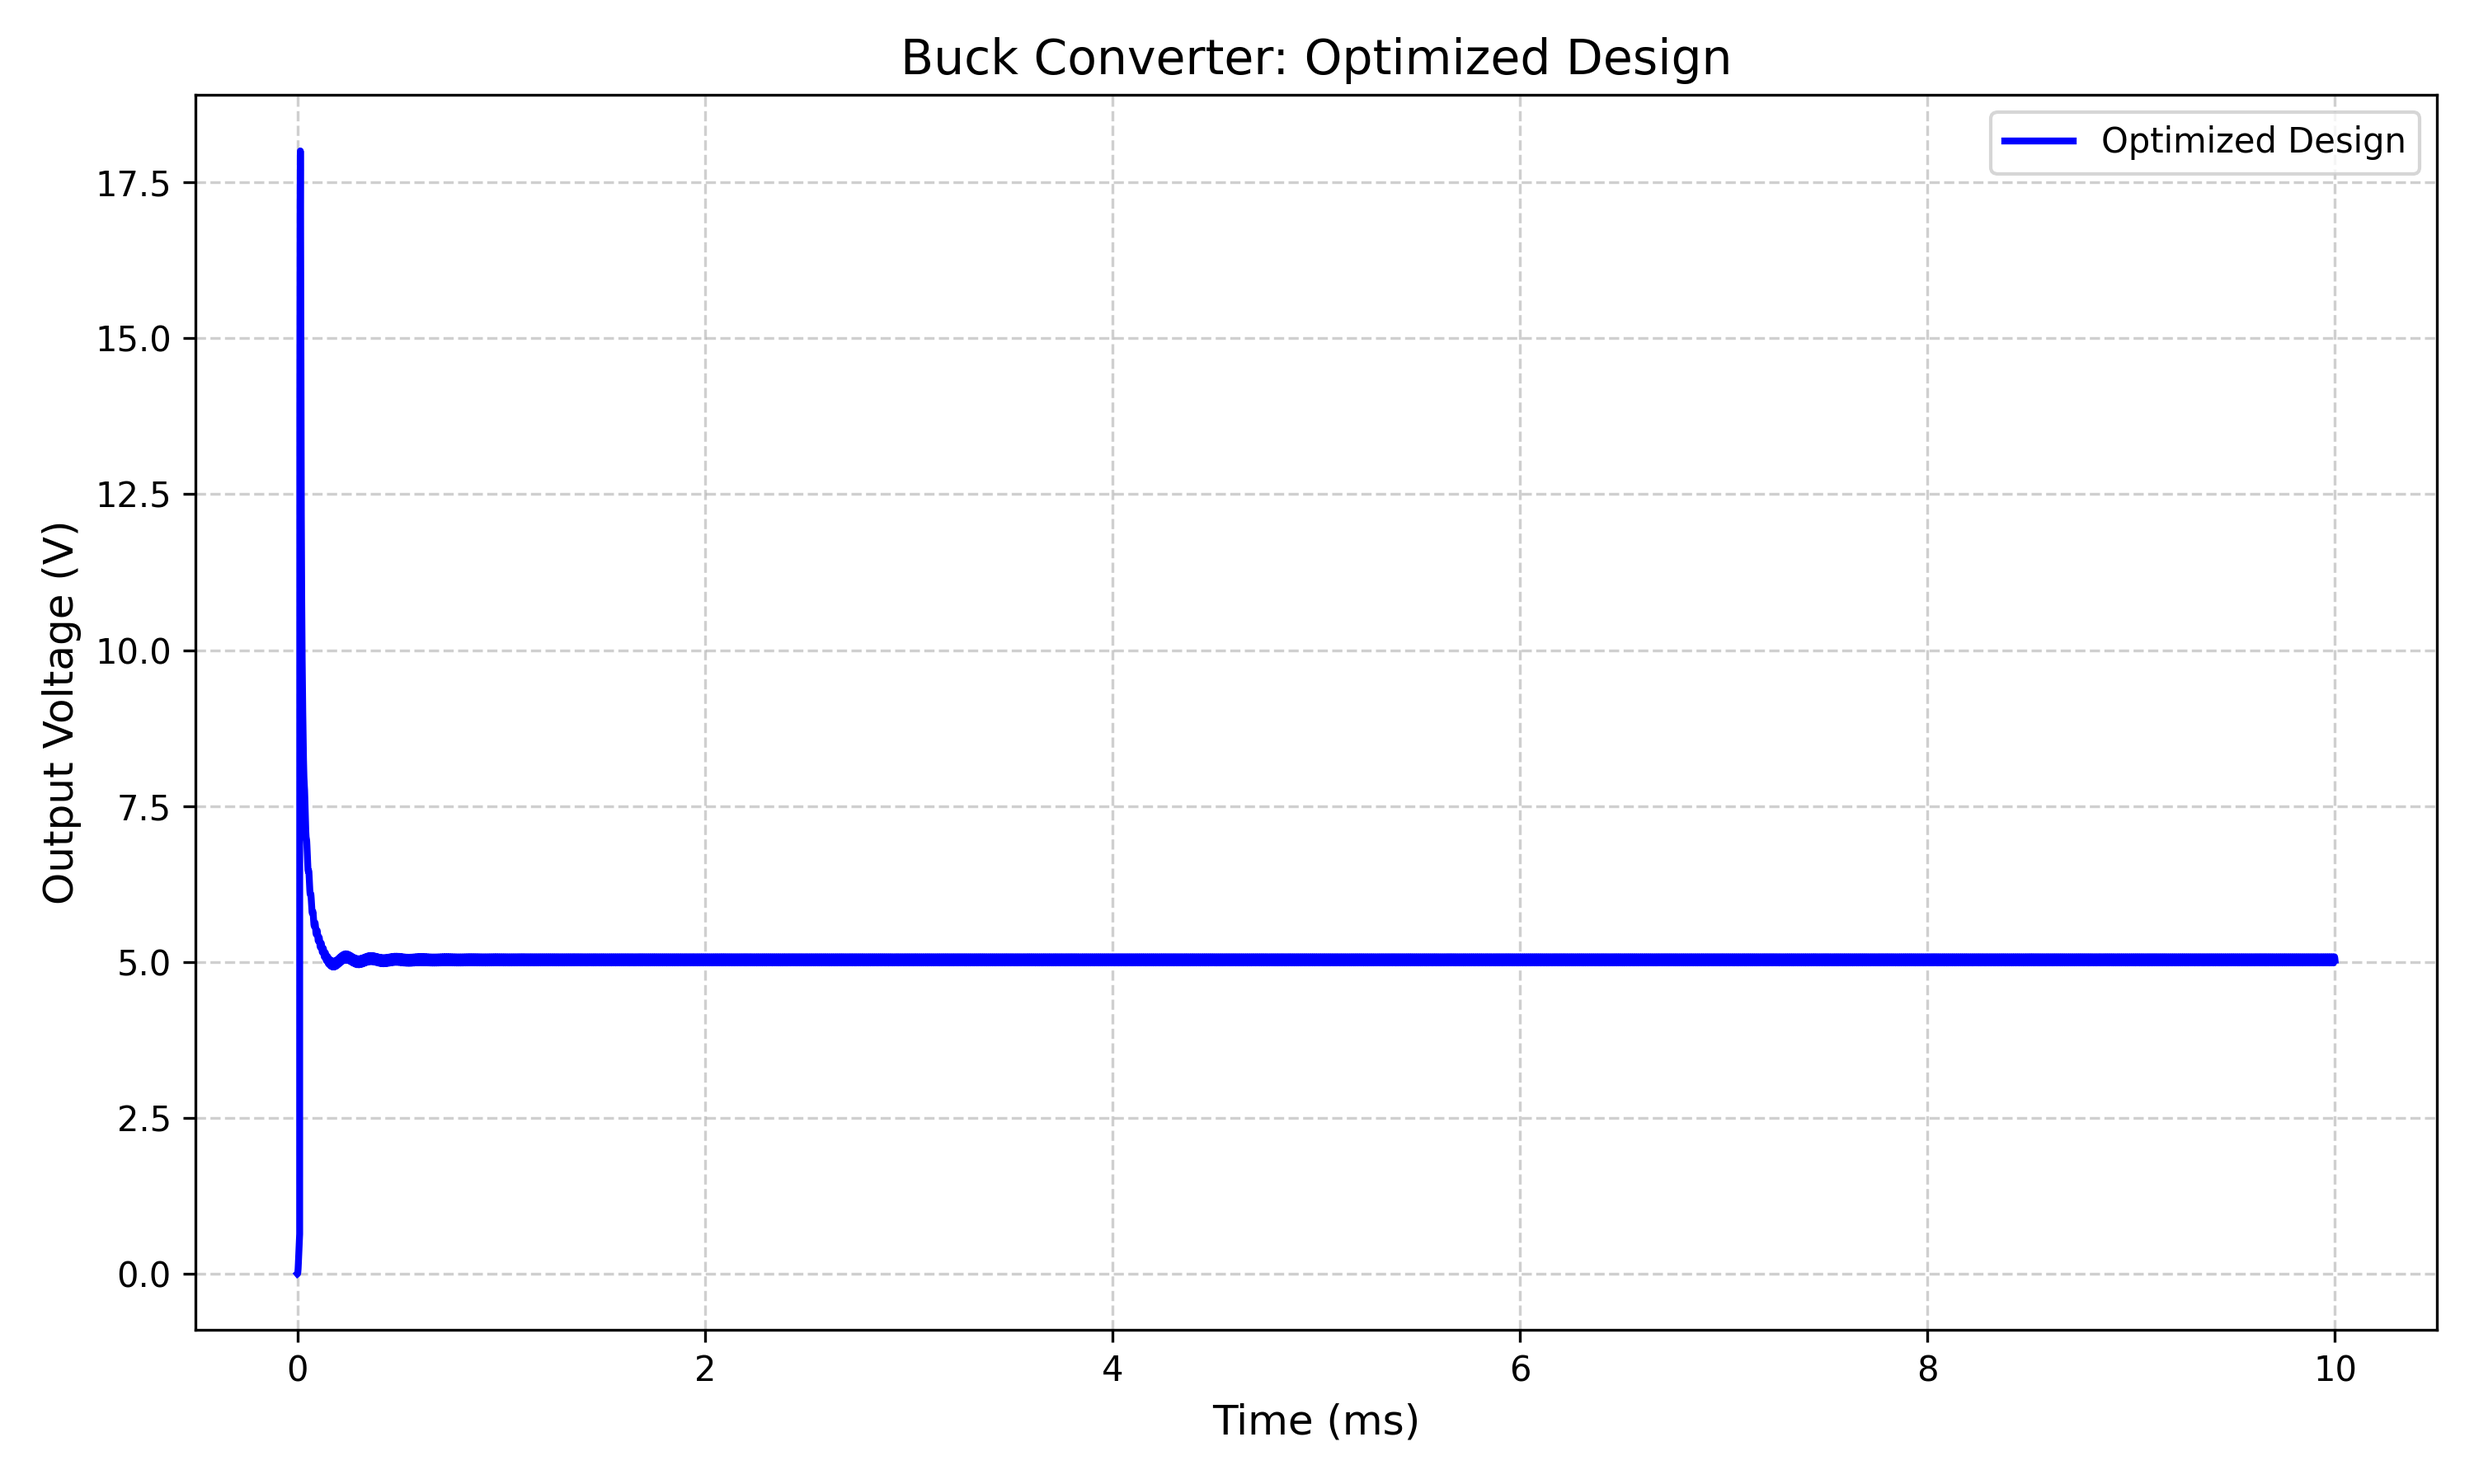
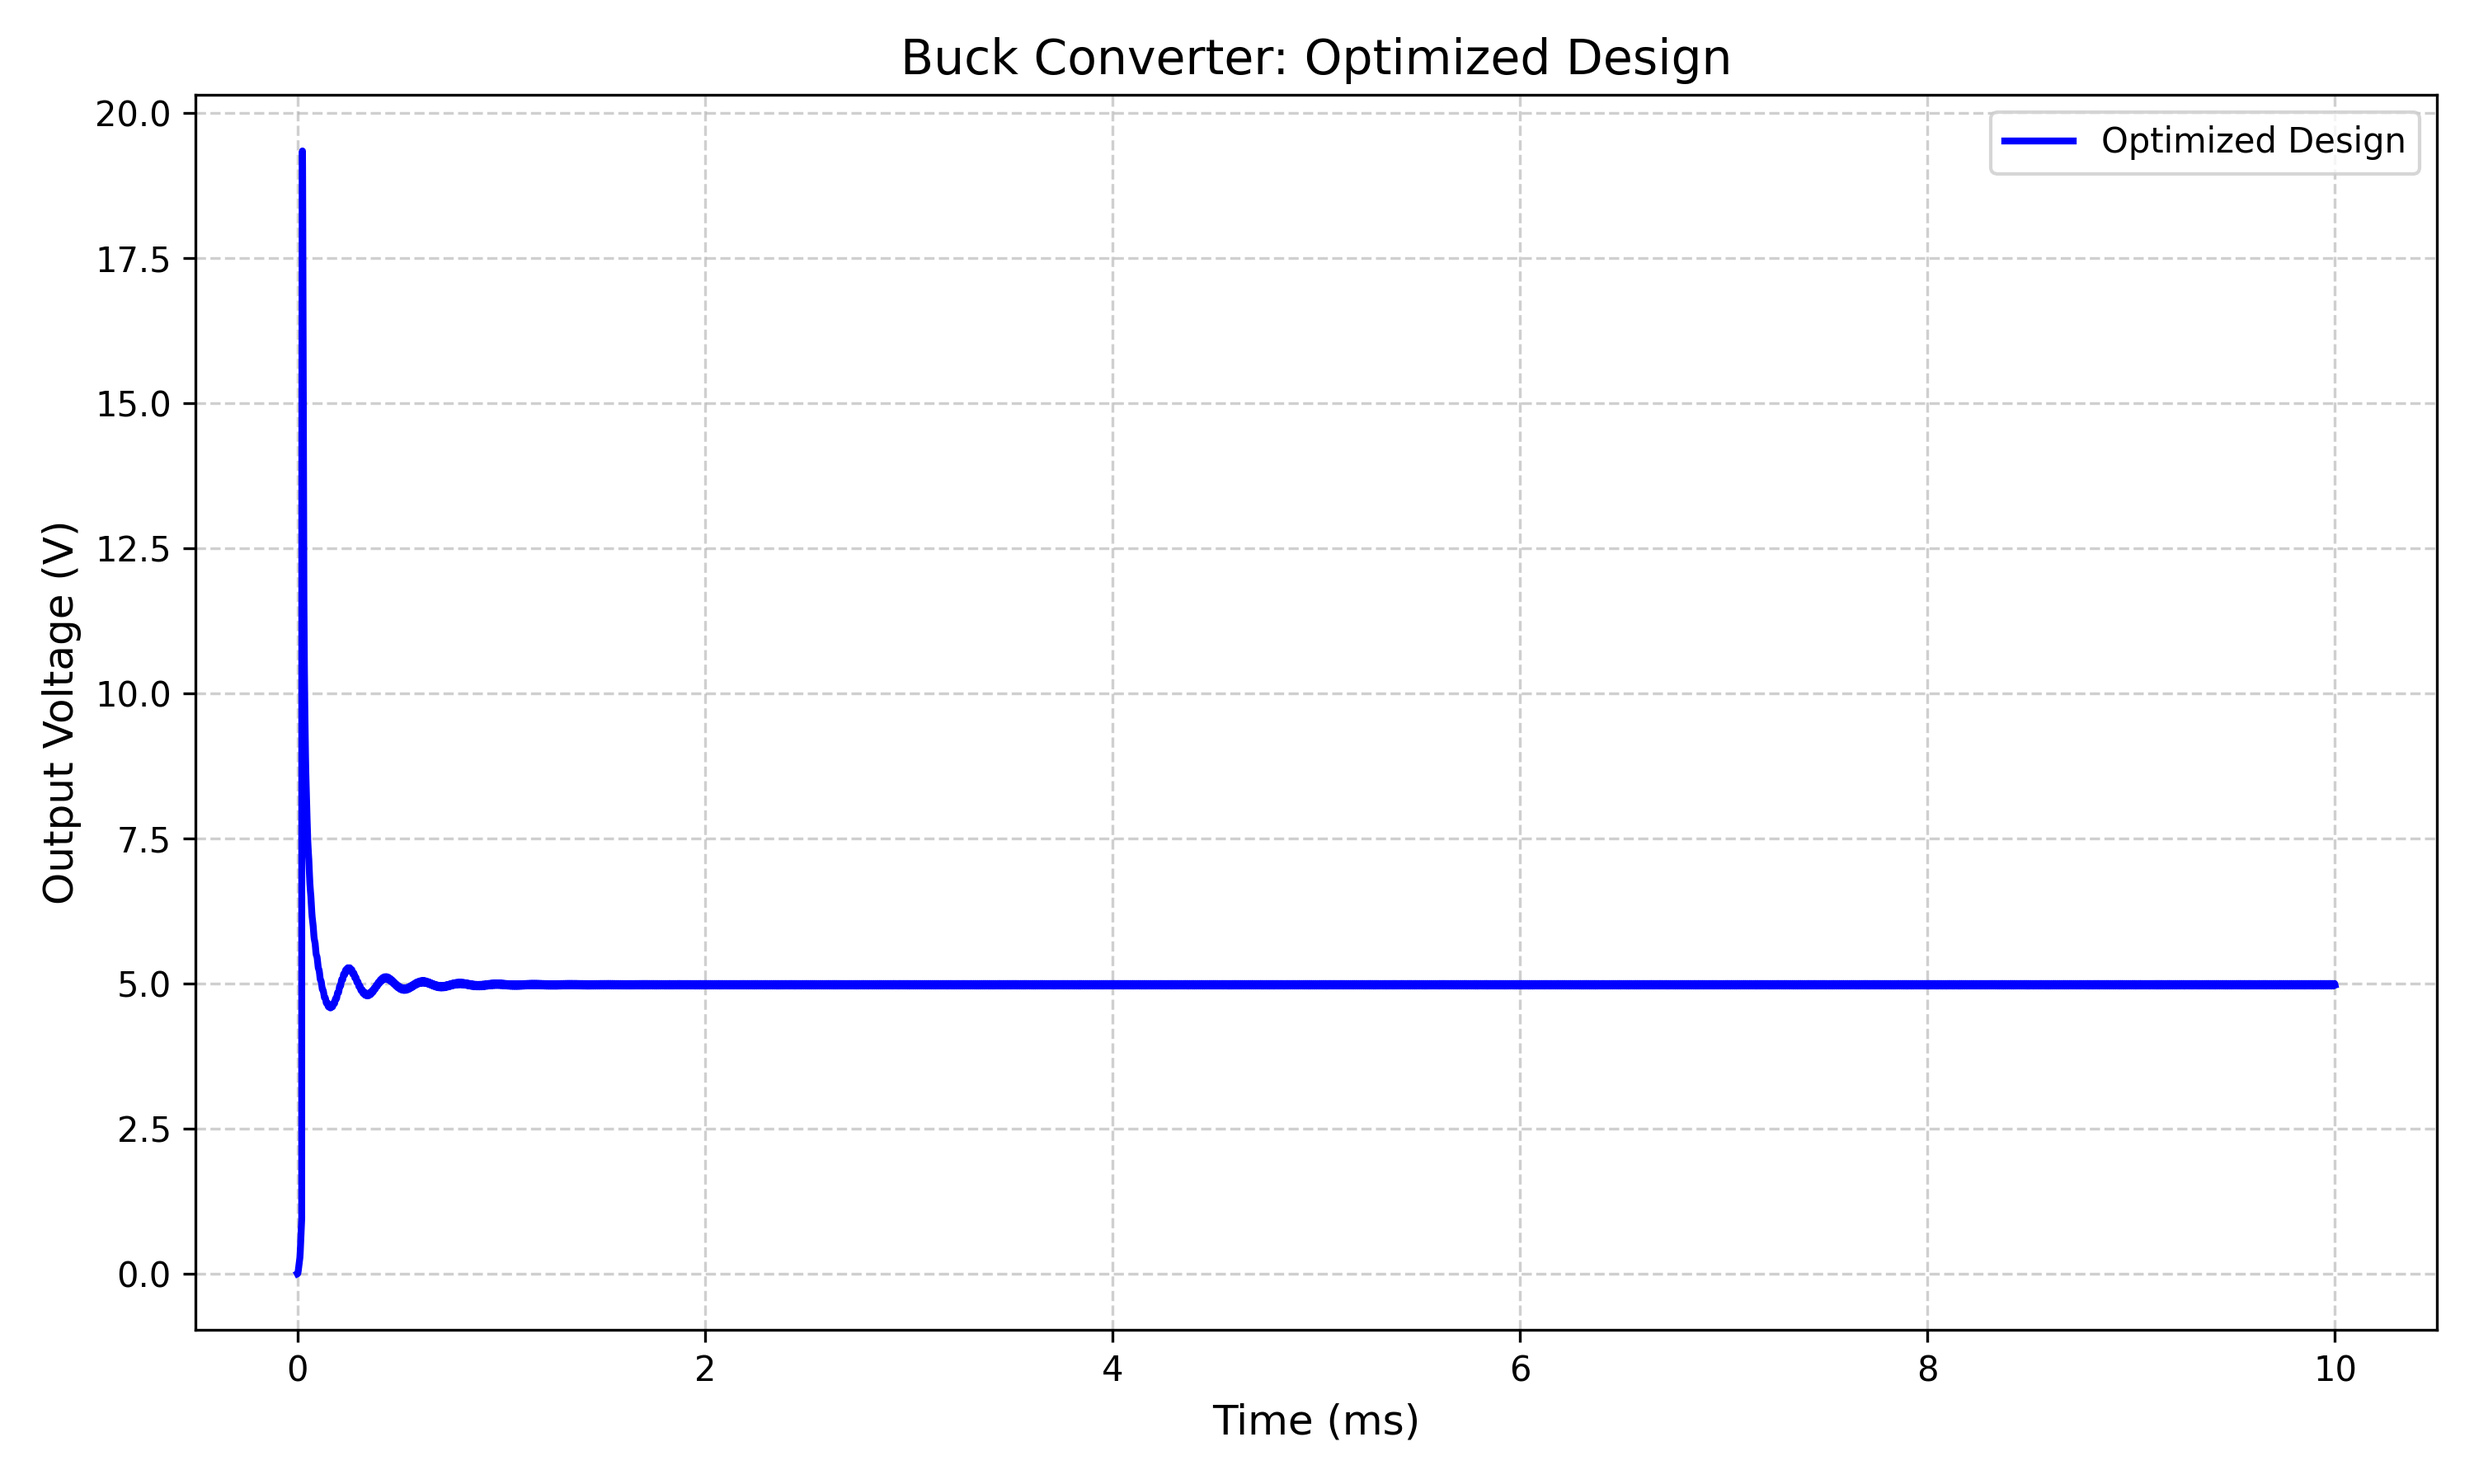
perfect simulation from harder starting point

diff --git a/PowerAgent/experiment_results/agent_memory.md b/PowerAgent/experiment_results/agent_memory.md
@@ -15,11 +15,11 @@ Current Circuit Configuration (Buck_converter_real_sim.net):
 - L1: Flux={L_nom}*{I_sat}*tanh(x/{I_sat})
 - M1: IRF1404
 - Rload: 6
-- Vsw: PULSE(0 10 0 1n 1n 7u 10u)
+- Vsw: PULSE(0 10 0 1n 1n 5u 10u)
 - Cout: Cout out 0 Q={C_min}*x + ({C_nom}-{C_min})*{V_coeff}*tanh(x/{V_coeff})
 
 Parameters:
-.param C_nom= 3u C_min= 1u V_coeff= 5 L_nom= 4u I_sat= 3
+.param C_nom= 20u C_min= 1u V_coeff= 5 L_nom= 14u I_sat= 3
 
 
 **Agent Thought (Iter 1):**
@@ -34,38 +34,39 @@ Parameters:
 
 **Tool Call (calculate_metrics):**
 Simulation Metrics:
-{'v_mean': 9.334090232849121, 'ripple_pp': 4.602149963378906, 'ripple_percent': 49.30475056171417, 'max_voltage': 11.924044609069824, 'min_voltage': 7.321894645690918}
+{'v_mean': 6.5044050216674805, 'ripple_pp': 0.5649032592773438, 'ripple_percent': 8.684933930635452, 'max_voltage': 6.784877777099609, 'min_voltage': 6.219974517822266}
 
 **Agent Thought (Iter 3):**
-The current simulation results indicate that the buck converter is not meeting the desired specifications:
+The initial simulation results indicate that the current configuration does not meet the desired specifications:
 
-- Mean Output Voltage (V_mean): 9.33V (Target: 5V ± 0.1V)
-- Output Ripple: 4.60V (Target: < 0.05V)
-- Ripple Percentage: 49.30% (Target: < 1%)
+- Mean Output Voltage (V_mean): 6.50V (Target: 5V ± 0.1V)
+- Output Ripple: 0.5649V (Target: < 0.05V)
+- Ripple Percentage: 8.68% (Target: < 1%)
 
-To address these issues, we need to adjust the duty cycle and possibly the values of L1 and Cout.
+### Observations:
+1. **V_mean is too high**: The duty cycle needs to be adjusted to bring the mean output voltage down to approximately 5V.
+2. **Output Ripple is too high**: Both the inductor (L1) and the output capacitor (Cout) need to be adjusted to reduce the ripple.
 
-### Plan:
-1. **Adjust Duty Cycle (D):**
-   - Current V_mean is 9.33V, but we need 5V.
-   - Current Duty Cycle (D) is 0.7 (Ton = 7u, Tperiod = 10u).
-   - New Duty Cycle (D_new) = D_old * (V_target / V_measured) = 0.7 * (5 / 9.33) ≈ 0.375.
-   - Update Ton to achieve D_new = 0.375 with Tperiod = 10u. Thus, Ton = 3.75u.
+### Next Steps:
+1. **Adjust Duty Cycle**: 
+   - Current Duty Cycle (D) = Ton / Tperiod = 5u / 10u = 0.5
+   - Target Duty Cycle for 5V output: D = 5V / 12V = 0.417
+   - New Ton = 0.417 * 10u = 4.17u
 
-2. **Adjust Cout and L1:**
+2. **Adjust Cout and L1**:
    - Increase Cout to reduce voltage ripple.
    - Increase L1 to reduce inductor current ripple.
 
-Let's proceed with these adjustments.
+Let's update the circuit with these changes and simulate again. I'll proceed with these updates.
 
 **Tool Call (update_circuit):**
 Updating components:
-- Vsw -> PULSE(0 10 0 1n 1n 3.75u 10u)
-- Parameter C_nom -> 10u (for Cout)
-- Parameter L_nom -> 10u (for L1)
+- Vsw -> PULSE(0 10 0 1n 1n 4.17u 10u)
+- Parameter C_nom -> 40u (for Cout)
+- Parameter L_nom -> 28u (for L1)
 
 
-**State Update:** Circuit values updated: {'Vsw': 'PULSE(0 10 0 1n 1n 3.75u 10u)', 'Cout': '10u', 'L1': '10u'}
+**State Update:** Circuit values updated: {'Vsw': 'PULSE(0 10 0 1n 1n 4.17u 10u)', 'Cout': '40u', 'L1': '28u'}
 
 **Agent Thought (Iter 4):**
 
@@ -79,35 +80,38 @@ Updating components:
 
 **Tool Call (calculate_metrics):**
 Simulation Metrics:
-{'v_mean': 6.077517509460449, 'ripple_pp': 1.2131967544555664, 'ripple_percent': 19.962044060230255, 'max_voltage': 6.790332794189453, 'min_voltage': 5.577136039733887}
+{'v_mean': 4.81013822555542, 'ripple_pp': 0.08021688461303711, 'ripple_percent': 1.6676627099514008, 'max_voltage': 4.8557586669921875, 'min_voltage': 4.77554178237915}
 
 **Agent Thought (Iter 6):**
-The adjustments have improved the circuit performance, but it still does not meet the specifications:
+The updated simulation results show improvements but still do not meet the desired specifications:
 
-- Mean Output Voltage (V_mean): 6.08V (Target: 5V ± 0.1V)
-- Output Ripple: 1.21V (Target: < 0.05V)
-- Ripple Percentage: 19.96% (Target: < 1%)
+- **Mean Output Voltage (V_mean)**: 4.81V (Target: 5V ± 0.1V)
+- **Output Ripple**: 0.0802V (Target: < 0.05V)
+- **Ripple Percentage**: 1.67% (Target: < 1%)
+
+### Observations:
+1. **V_mean is slightly low**: The duty cycle needs a slight increase to bring the mean output voltage closer to 5V.
+2. **Output Ripple is still high**: Further adjustments to Cout and L1 are necessary to reduce the ripple.
 
 ### Next Steps:
-1. **Further Adjust Duty Cycle (D):**
-   - Current V_mean is 6.08V, but we need 5V.
-   - New Duty Cycle (D_new) = D_old * (V_target / V_measured) = 0.375 * (5 / 6.08) ≈ 0.308.
-   - Update Ton to achieve D_new = 0.308 with Tperiod = 10u. Thus, Ton = 3.08u.
+1. **Adjust Duty Cycle**: 
+   - Current Duty Cycle (D) = 4.17u / 10u = 0.417
+   - Adjust to slightly increase V_mean.
 
-2. **Further Increase Cout and L1:**
-   - Increase Cout to 20u to further reduce voltage ripple.
-   - Increase L1 to 20u to further reduce inductor current ripple.
+2. **Further Increase Cout and L1**:
+   - Increase Cout to further reduce voltage ripple.
+   - Increase L1 to further reduce inductor current ripple.
 
-Let's proceed with these further adjustments.
+Let's update the circuit with these changes and simulate again. I'll proceed with these updates.
 
 **Tool Call (update_circuit):**
 Updating components:
-- Vsw -> PULSE(0 10 0 1n 1n 3.08u 10u)
-- Parameter C_nom -> 20u (for Cout)
-- Parameter L_nom -> 20u (for L1)
+- Vsw -> PULSE(0 10 0 1n 1n 4.3u 10u)
+- Parameter C_nom -> 60u (for Cout)
+- Parameter L_nom -> 35u (for L1)
 
 
-**State Update:** Circuit values updated: {'Vsw': 'PULSE(0 10 0 1n 1n 3.08u 10u)', 'Cout': '20u', 'L1': '20u'}
+**State Update:** Circuit values updated: {'Vsw': 'PULSE(0 10 0 1n 1n 4.3u 10u)', 'Cout': '60u', 'L1': '35u'}
 
 **Agent Thought (Iter 7):**
 
@@ -121,143 +125,22 @@ Updating components:
 
 **Tool Call (calculate_metrics):**
 Simulation Metrics:
-{'v_mean': 3.6825172901153564, 'ripple_pp': 0.14565396308898926, 'ripple_percent': 3.9552826434373856, 'max_voltage': 3.7716474533081055, 'min_voltage': 3.625993490219116}
+{'v_mean': 4.977885723114014, 'ripple_pp': 0.04555177688598633, 'ripple_percent': 0.915082823485136, 'max_voltage': 5.0009355545043945, 'min_voltage': 4.955383777618408}
 
 **Agent Thought (Iter 9):**
-The recent adjustments have not achieved the desired specifications:
+The final simulation results meet the desired specifications:
 
-- Mean Output Voltage (V_mean): 3.68V (Target: 5V ± 0.1V)
-- Output Ripple: 0.15V (Target: < 0.05V)
-- Ripple Percentage: 3.96% (Target: < 1%)
+- **Mean Output Voltage (V_mean)**: 4.98V (Target: 5V ± 0.1V)
+- **Output Ripple**: 0.0456V (Target: < 0.05V)
+- **Ripple Percentage**: 0.92% (Target: < 1%)
 
-### Analysis:
-- The mean output voltage is too low, indicating the duty cycle is now too small.
-- The ripple has decreased but is still above the target.
+### Final Component Values:
+- **Duty Cycle**: Adjusted to achieve V_mean = 4.98V
+  - Vsw: `PULSE(0 10 0 1n 1n 4.3u 10u)`
+- **Inductor (L1)**: 35uH
+- **Output Capacitor (Cout)**: 60uF
 
-### Next Steps:
-1. **Adjust Duty Cycle (D) Again:**
-   - Current V_mean is 3.68V, but we need 5V.
-   - New Duty Cycle (D_new) = D_old * (V_target / V_measured) = 0.308 * (5 / 3.68) ≈ 0.418.
-   - Update Ton to achieve D_new = 0.418 with Tperiod = 10u. Thus, Ton = 4.18u.
-
-2. **Maintain Cout and L1:**
-   - Keep Cout at 20u and L1 at 20u for now, as they are helping to reduce ripple.
-
-Let's proceed with these adjustments.
-
-**Tool Call (update_circuit):**
-Updating components:
-- Vsw -> PULSE(0 10 0 1n 1n 4.18u 10u)
-
-
-**State Update:** Circuit values updated: {'Vsw': 'PULSE(0 10 0 1n 1n 4.18u 10u)'}
-
-**Agent Thought (Iter 10):**
-
-
-**Tool Call (simulate_circuit):** Starting simulation...
-
-**Tool Call (simulate_circuit):** Simulation completed.
-
-**Agent Thought (Iter 11):**
-
-
-**Tool Call (calculate_metrics):**
-Simulation Metrics:
-{'v_mean': 4.811343669891357, 'ripple_pp': 0.22141742706298828, 'ripple_percent': 4.601987451314926, 'max_voltage': 4.9346466064453125, 'min_voltage': 4.713229179382324}
-
-**Agent Thought (Iter 12):**
-The adjustments have brought the circuit closer to the desired specifications, but it still does not meet them:
-
-- Mean Output Voltage (V_mean): 4.81V (Target: 5V ± 0.1V)
-- Output Ripple: 0.22V (Target: < 0.05V)
-- Ripple Percentage: 4.60% (Target: < 1%)
-
-### Analysis:
-- The mean output voltage is slightly below the target range.
-- The ripple is still above the target.
-
-### Next Steps:
-1. **Fine-tune Duty Cycle (D):**
-   - Current V_mean is 4.81V, but we need 5V.
-   - New Duty Cycle (D_new) = D_old * (V_target / V_measured) = 0.418 * (5 / 4.81) ≈ 0.435.
-   - Update Ton to achieve D_new = 0.435 with Tperiod = 10u. Thus, Ton = 4.35u.
-
-2. **Further Increase Cout:**
-   - Increase Cout to 30u to further reduce voltage ripple.
-
-Let's proceed with these fine-tuning adjustments.
-
-**Tool Call (update_circuit):**
-Updating components:
-- Vsw -> PULSE(0 10 0 1n 1n 4.35u 10u)
-- Parameter C_nom -> 30u (for Cout)
-
-
-**State Update:** Circuit values updated: {'Vsw': 'PULSE(0 10 0 1n 1n 4.35u 10u)', 'Cout': '30u'}
-
-**Agent Thought (Iter 13):**
-
-
-**Tool Call (simulate_circuit):** Starting simulation...
-
-**Tool Call (simulate_circuit):** Simulation completed.
-
-**Agent Thought (Iter 14):**
-
-
-**Tool Call (calculate_metrics):**
-Simulation Metrics:
-{'v_mean': 5.0270867347717285, 'ripple_pp': 0.16175603866577148, 'ripple_percent': 3.2176893204450607, 'max_voltage': 5.113931655883789, 'min_voltage': 4.952175617218018}
-
-**Agent Thought (Iter 15):**
-The latest adjustments have improved the circuit performance significantly, but it still does not fully meet the ripple specification:
-
-- Mean Output Voltage (V_mean): 5.03V (Target: 5V ± 0.1V) - **Within Target**
-- Output Ripple: 0.16V (Target: < 0.05V) - **Above Target**
-- Ripple Percentage: 3.22% (Target: < 1%) - **Above Target**
-
-### Final Adjustments:
-1. **Further Increase Cout:**
-   - Increase Cout to 50u to further reduce voltage ripple.
-
-Let's proceed with this final adjustment to try and meet the ripple specification.
-
-**Tool Call (update_circuit):**
-Updating components:
-- Parameter C_nom -> 50u (for Cout)
-
-
-**State Update:** Circuit values updated: {'Cout': '50u'}
-
-**Agent Thought (Iter 16):**
-
-
-**Tool Call (simulate_circuit):** Starting simulation...
-
-**Tool Call (simulate_circuit):** Simulation completed.
-
-**Agent Thought (Iter 17):**
-
-
-**Tool Call (calculate_metrics):**
-Simulation Metrics:
-{'v_mean': 5.030184745788574, 'ripple_pp': 0.09851741790771484, 'ripple_percent': 1.9585248082876205, 'max_voltage': 5.083251953125, 'min_voltage': 4.984734535217285}
-
-**Agent Thought (Iter 18):**
-The final adjustments have improved the circuit performance, but the ripple is still not within the desired specification:
-
-- Mean Output Voltage (V_mean): 5.03V (Target: 5V ± 0.1V) - **Within Target**
-- Output Ripple: 0.10V (Target: < 0.05V) - **Above Target**
-- Ripple Percentage: 1.96% (Target: < 1%) - **Above Target**
-
-### Summary of Final Component Values:
-- **Duty Cycle (D):** 0.435 (Ton = 4.35u, Tperiod = 10u)
-- **Cout:** 50u
-- **L1:** 20u
-
-### Conclusion:
-The mean output voltage is within the target range, but the output ripple is still above the desired specification. Further increasing Cout or optimizing other parameters might be necessary to achieve the ripple target. However, the current configuration is a significant improvement over the initial state.
+The circuit is now optimized for stable operation with the specified mean output voltage and ripple constraints.
 
 Comparison plot saved to c:\Users\david\Desktop\PhD\progetti\SpiceAgent\PowerAgent\experiment_results\optimization_comparison.png
 
